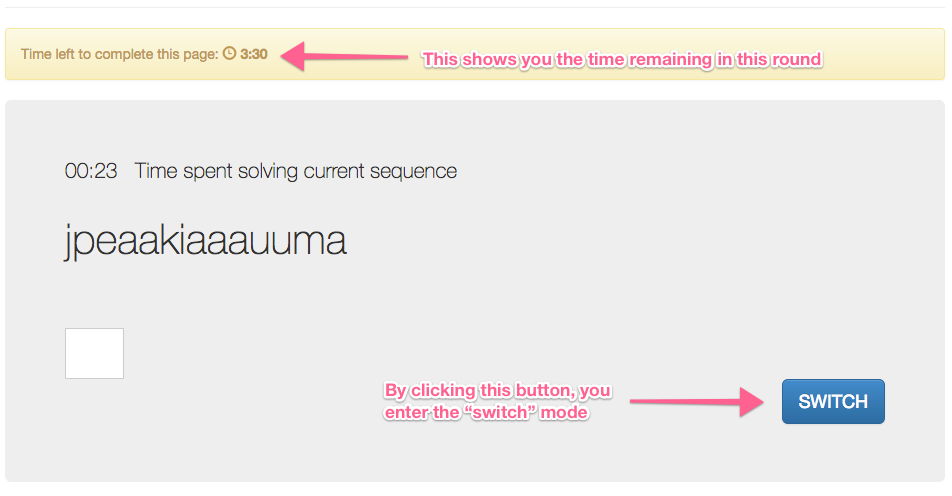
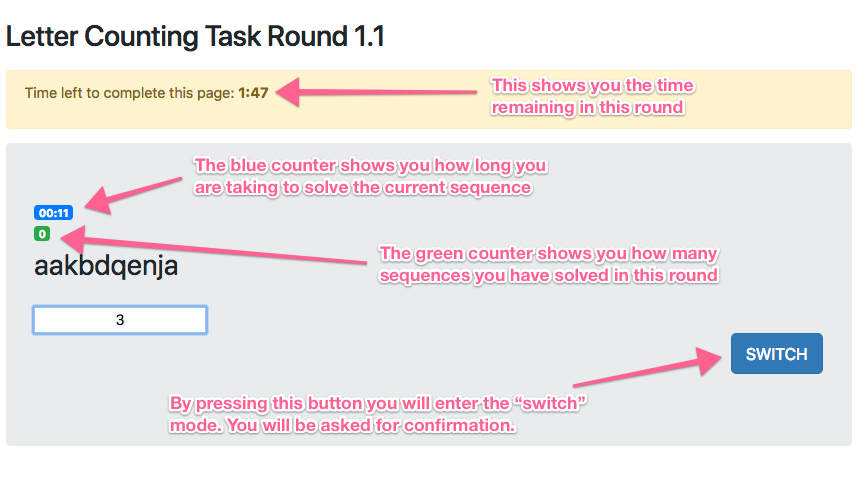
Deactivated JS Tour and added Screenshots

diff --git a/templates/tullock_income_intro/SwitchInstructions.html b/templates/tullock_income_intro/SwitchInstructions.html
@@ -38,8 +38,8 @@
         </div>
         <br>
     <p>
-        Below this panel you will find an example of how earnings from "Letter Counting" and "Switch" add up. During the first task an annotated tour will show you
-        the new relevant elements (Page Timer, Counter of Solved Sequences, and Switch Button).
+        Below this panel you will find an example of how earnings from "Letter Counting" and "Switch" add up. Farther below you will find two annotated images
+        showing you all the new relevant elements (Page Timer, Counter of Solved Sequences, and Switch Button).
     </p>
     </p>
     </div>
@@ -89,7 +89,22 @@
 </table>
     </div>
 <br>
-    <!--
+
+<hr>
+
+<div class="card bg-light instructions">
+    <div class="card-body">
+    An example screen is shown below, showing you all the new relevant elements (Page Timer, Counter of Solved Sequences, and Switch Button).
+    </div>
+    </div>
+    <div class="card">
+    <div class="card-header text-white bg-primary mb-3">Letter Count screen</div>
+    <img src="{% static 'tullock_income_intro/task_inst_switch.png' %}" class="img-thumbnail"
+         alt="Responsive image">
+    </div>
+
+    <hr>
+
 <div class="card bg-light instructions">
     <div class="card-body">
     Note: to ensure that you do not enter the "switch" mode by mistake you will be asked for confirmation. An example screen is shown below.
@@ -102,7 +117,7 @@
     </div>
 
     <br>
-    -->
+
     <br>
     <h4>Are you ready to proceed?</h4>
     {% next_button %}

diff --git a/templates/tullock_income_intro/InstructionsSum.html b/templates/tullock_income_intro/InstructionsSum.html
@@ -1,11 +1,8 @@
 {% load otree staticfiles %}
 
-<div class="instructions well well-lg">
-
-    <h3 class="panel-sub-heading">
-        Instructions
-    </h3>
-
+<div class="card">
+    <div class="card-header text-white bg-primary mb-3"> Instructions </div>
+    <div class="card-body">
     <p>
         Your task is to count how many <strong> "a"s </strong> there are in the sequence of characters currently displayed.
     </p>
@@ -22,5 +19,5 @@
     <p>
         <strong>This round lasts {{ Constants.time_in_minutes|floatformat:0 }} Minutes.</strong>
     </p>
-
+    </div>
 </div>

diff --git a/templates/tullock_income_intro/RET.html b/templates/tullock_income_intro/RET.html
@@ -105,11 +105,15 @@
 
 {% block scripts %}
 
+    {% comment %}
 <script type="text/javascript" src="{% static 'tullock_income_intro/js/bootstrap-tour-standalone.min.js' %}"></script>
 
+
+    <!-- Uncomment to initialize a tour of all elements in the screen (counters, switch, etc -->
     {% if subsession.round_number == 1 %}
 <script type="text/javascript" src="{% static 'tullock_income_intro/js/Tour-RET.js' %}"></script>
     {% endif %}
+    {% endcomment %}
 
         <!-- this needs to be in a separate file. -->
 <script>
